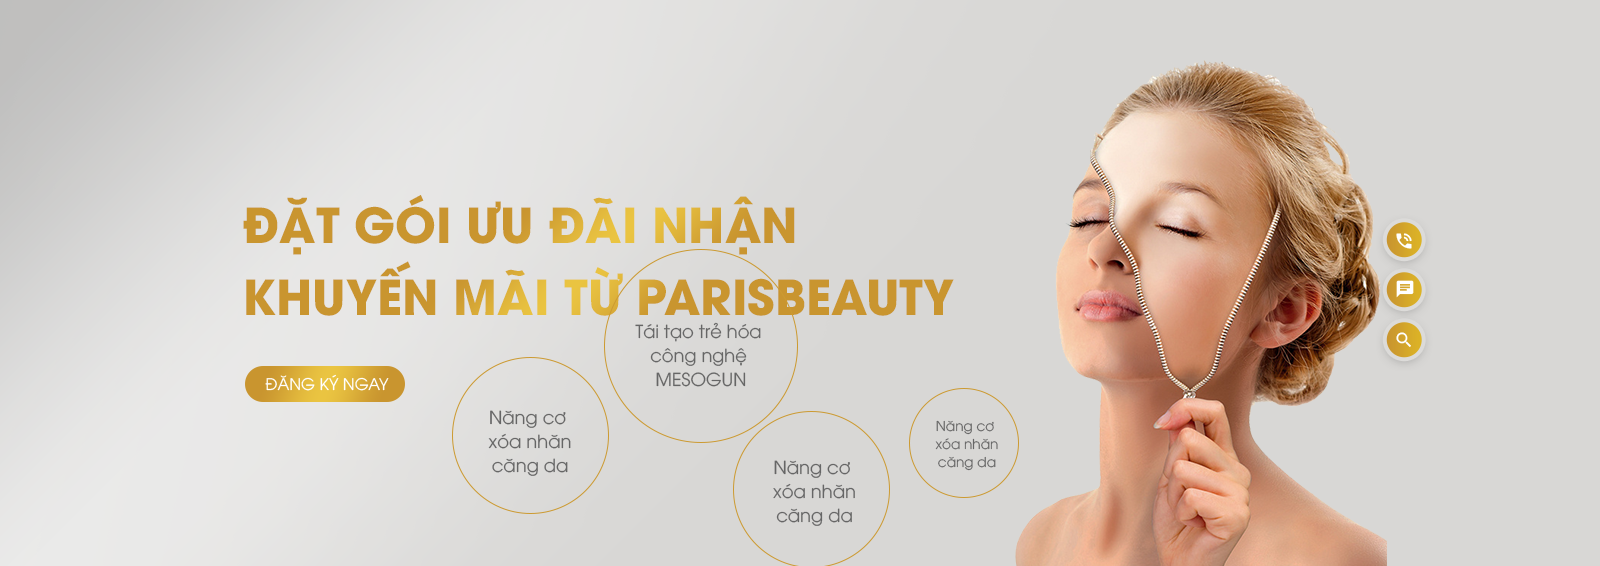
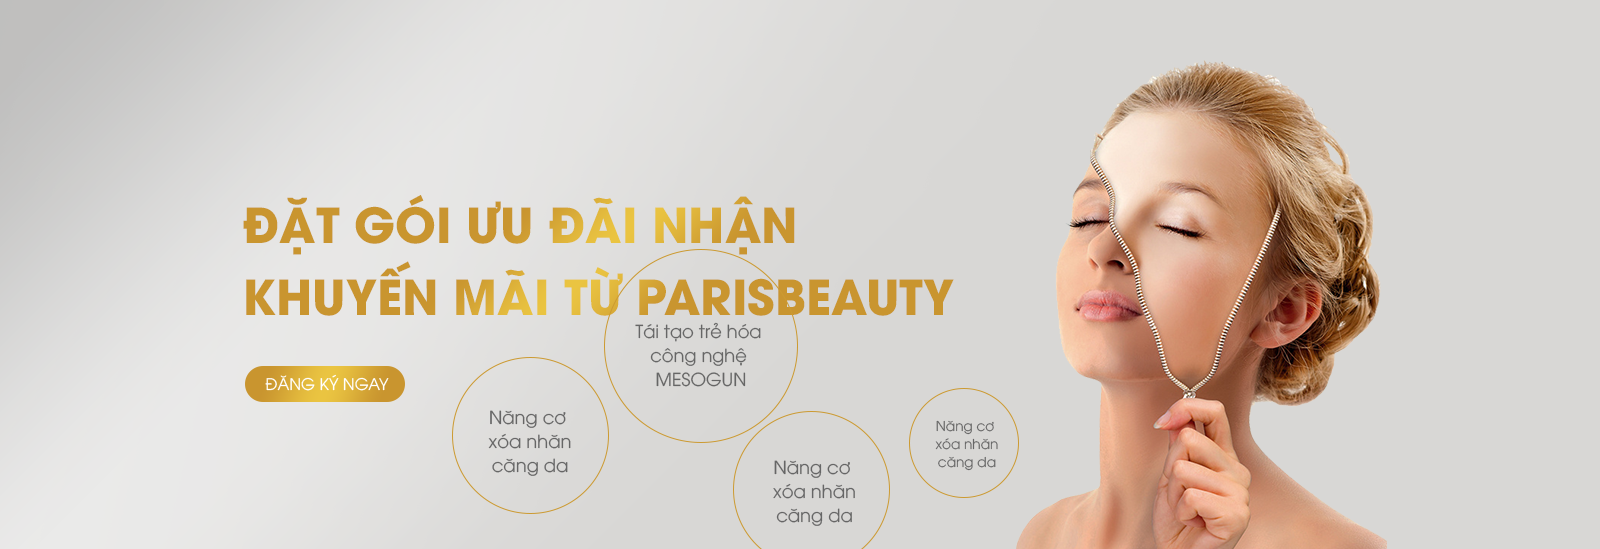
update breadcrumb

diff --git a/lib/breadcrumb/b-2/index.sass b/lib/breadcrumb/b-2/index.sass
@@ -2,34 +2,14 @@
 //////////////////////////////////////
 // CODE
 //////////////////////////////////////
-.canhcam-breadcrumb-promotion .owl-carousel .owl-stage-outer .item
-	min-height: 380px !important
-	background-position: center center
+.canhcam-breadcrumb-1 .owl-carousel .owl-stage-outer .item
+	background-repeat: no-repeat !important
+	background-position: center center !important
 	+media-breakpoint-up(lg)
+		min-height: 380px !important
 		background-position: center -70px !important
-.canhcam-breadcrumb-promotion
+.canhcam-breadcrumb-1
 	position: relative
-	.promotion
-		z-index: 300
-		+pos(abs, null null r(147px) 10%)
-		h2
-			+fw(bold)
-			+bg-rad-1
-			text-transform: uppercase
-			-webkit-text-fill-color: transparent
-			-webkit-background-clip: text
-			+media-breakpoint-up(lg)
-				+fz(r(48px))
-				margin-bottom: r(37px)
-		.btn-promotion
-			color: color-get($mau, trang)
-			+bg-rad-1
-			+bor-rad(50px)
-			+media-breakpoint-up(sm)
-
-			+media-breakpoint-up(lg)
-				+fz(r(16px))
-				+pad(r(9px) r(20px))
 	.support
 		position: fixed
 		top: 222px
@@ -51,8 +31,8 @@
 			text-align: center
 			opacity: .9
 			box-shadow: 0 0 0 4px rgba(255, 255, 255, 0.3)
-			background-position: 0 -100px !important
-			background-repeat: no-repeat
+			background-repeat: no-repeat !important
+			// min-height: 380px !important
 	.main-breadcrumb
 		background: color-get($mau,xam-10)
 		position: absolute

diff --git a/lib/breadcrumb/b-1/index.sass b/lib/breadcrumb/b-1/index.sass
@@ -2,8 +2,12 @@
 //////////////////////////////////////
 // CODE
 //////////////////////////////////////
-
-.canhcam-breadcrumb-1
+.canhcam-breadcrumb-index-1 .owl-carousel .owl-stage-outer .item
+	background-repeat: no-repeat !important
+	+media-breakpoint-up(lg)
+		min-height: 505px !important
+		background-position: center -70px !important
+.canhcam-breadcrumb-index-1
 	position: relative
 	.support
 		position: fixed
@@ -24,9 +28,10 @@
 			justify-content: center
 			align-items: center
 			text-align: center
-			border: 4px solid
-			box-shadow: 0px 3px 13px 0px rgba(0, 0, 0, 0.3)
 			opacity: .9
+			box-shadow: 0 0 0 4px rgba(255, 255, 255, 0.3)
+			background-repeat: no-repeat !important
+			// min-height: 380px !important
 	.main-breadcrumb
 		background: color-get($mau,xam-10)
 		position: absolute

diff --git a/lib/breadcrumb/b-2/index.js b/lib/breadcrumb/b-2/index.js
@@ -1,6 +1,6 @@
 $(function() {
-    if ($('.canhcam-breadcrumb-index-1 .owl-carousel').length) {
-		$('.canhcam-breadcrumb-index-1 .owl-carousel').owlCarousel({
+    if ($('.canhcam-breadcrumb-1 .owl-carousel').length) {
+		$('.canhcam-breadcrumb-1 .owl-carousel').owlCarousel({
             items: 1,
             loop: false,
             center: true,
